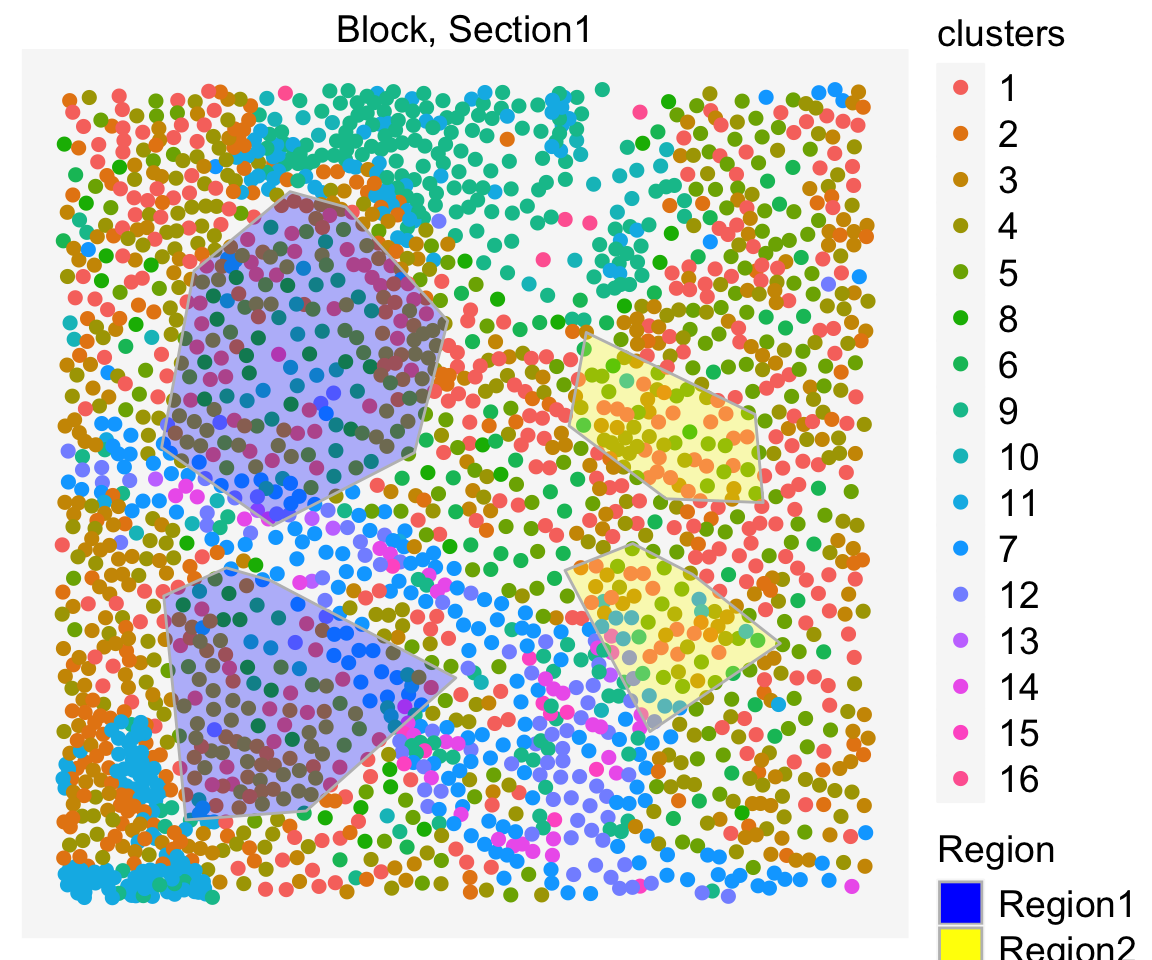
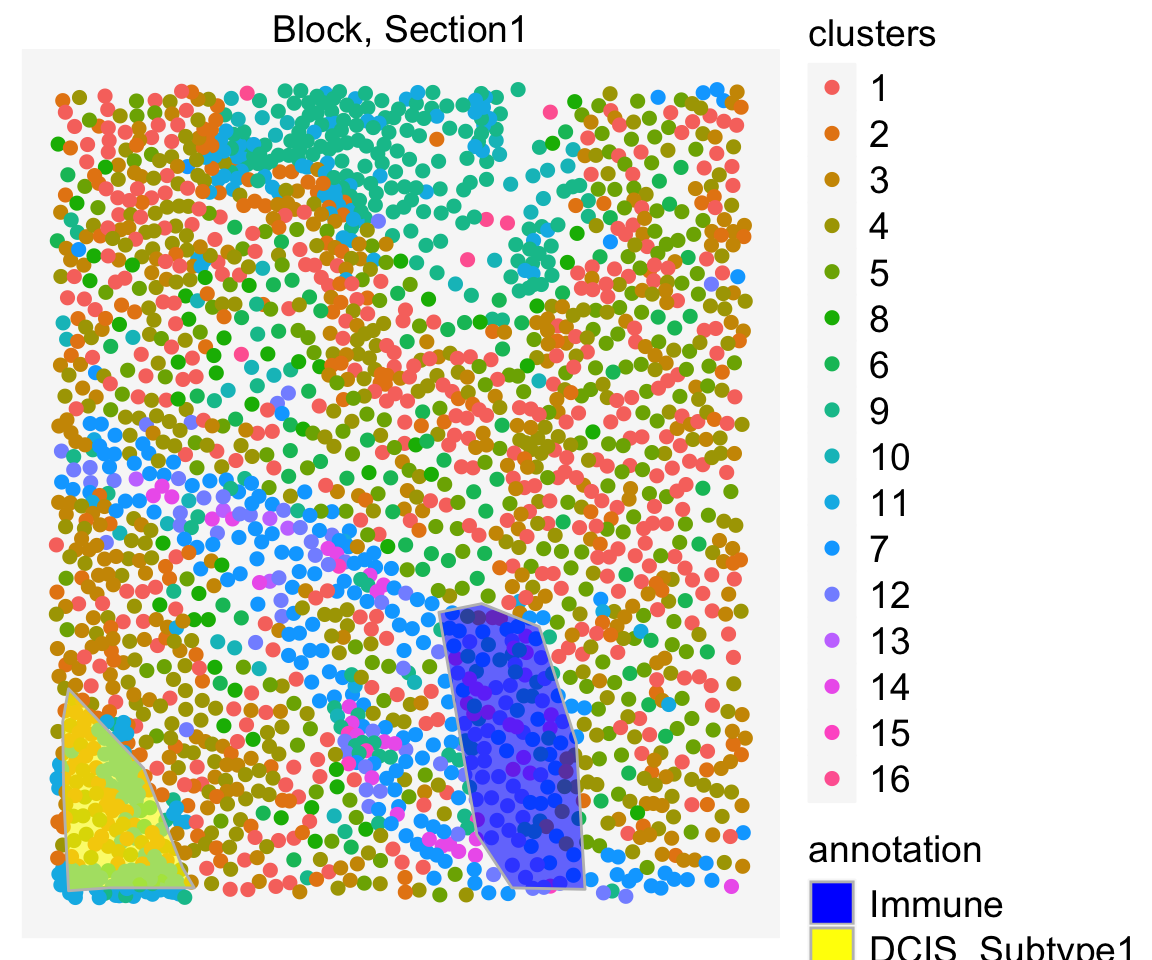
rerender the site

diff --git a/docs/voltronobjects.html b/docs/voltronobjects.html
@@ -493,13 +493,20 @@ tissue block with multiple layers and assays).</p>
 <p>The <strong>Metadata</strong> function calls the metadata table of
 the main assay type (see <a href="#assays">vrMainAssay</a>).</p>
 <pre class="r watch-out"><code>Metadata(visium_data)</code></pre>
-<pre><code>##                                                  id Count assay_id  Assay    Layer    Sample
-## AAAGGCTCTCGCGCCG-1_Assay1 AAAGGCTCTCGCGCCG-1_Assay1 39690   Assay1 Visium Section1 Anterior1
-## AAATGGCCCGTGCCCT-1_Assay1 AAATGGCCCGTGCCCT-1_Assay1 33516   Assay1 Visium Section1 Anterior1
-## AAATTACACGACTCTG-1_Assay1 AAATTACACGACTCTG-1_Assay1 12250   Assay1 Visium Section1 Anterior1
-## AAGACATACGTGGTTT-1_Assay1 AAGACATACGTGGTTT-1_Assay1 31821   Assay1 Visium Section1 Anterior1
-## ACCTACTATAAATCTA-1_Assay1 ACCTACTATAAATCTA-1_Assay1 41387   Assay1 Visium Section1 Anterior1
-## ACGCGGGCCAAGGACA-1_Assay1 ACGCGGGCCAAGGACA-1_Assay1 48003   Assay1 Visium Section1 Anterior1</code></pre>
+<pre><code>##                                                  id Count assay_id  Assay
+## AAAGGCTCTCGCGCCG-1_Assay1 AAAGGCTCTCGCGCCG-1_Assay1 39690   Assay1 Visium
+## AAATGGCCCGTGCCCT-1_Assay1 AAATGGCCCGTGCCCT-1_Assay1 33516   Assay1 Visium
+## AAATTACACGACTCTG-1_Assay1 AAATTACACGACTCTG-1_Assay1 12250   Assay1 Visium
+## AAGACATACGTGGTTT-1_Assay1 AAGACATACGTGGTTT-1_Assay1 31821   Assay1 Visium
+## ACCTACTATAAATCTA-1_Assay1 ACCTACTATAAATCTA-1_Assay1 41387   Assay1 Visium
+## ACGCGGGCCAAGGACA-1_Assay1 ACGCGGGCCAAGGACA-1_Assay1 48003   Assay1 Visium
+##                              Layer    Sample
+## AAAGGCTCTCGCGCCG-1_Assay1 Section1 Anterior1
+## AAATGGCCCGTGCCCT-1_Assay1 Section1 Anterior1
+## AAATTACACGACTCTG-1_Assay1 Section1 Anterior1
+## AAGACATACGTGGTTT-1_Assay1 Section1 Anterior1
+## ACCTACTATAAATCTA-1_Assay1 Section1 Anterior1
+## ACGCGGGCCAAGGACA-1_Assay1 Section1 Anterior1</code></pre>
 <p>You can also specify the assay ID or the assay type to call metadata
 of a subset of spatial points.</p>
 <pre class="r watch-out"><code>Metadata(visium_data, assay = &quot;Visium&quot;)
@@ -523,12 +530,14 @@ spot, cell, molecule and tile).</p>
 <p>The <strong>vrSpatialPoints</strong> function return the IDs of these
 entities for further downstream operations, such as subsetting etc.</p>
 <pre class="r watch-out"><code>vrSpatialPoints(visium_data)</code></pre>
-<pre><code>## [1] &quot;AAAGGCTCTCGCGCCG-1_Assay1&quot; &quot;AAATGGCCCGTGCCCT-1_Assay1&quot; &quot;AAATTACACGACTCTG-1_Assay1&quot;</code></pre>
+<pre><code>## [1] &quot;AAAGGCTCTCGCGCCG-1_Assay1&quot; &quot;AAATGGCCCGTGCCCT-1_Assay1&quot;
+## [3] &quot;AAATTACACGACTCTG-1_Assay1&quot;</code></pre>
 <p>You can also specify the assay ID or the assay type to call metadata
 of a subset of spatial points.</p>
 <pre class="r watch-out"><code>vrSpatialPoints(visium_data, assay = &quot;Visium&quot;)
 vrSpatialPoints(visium_data, assay = &quot;Assay1&quot;)</code></pre>
-<pre><code>## [1] &quot;AAAGGCTCTCGCGCCG-1_Assay1&quot; &quot;AAATGGCCCGTGCCCT-1_Assay1&quot; &quot;AAATTACACGACTCTG-1_Assay1&quot;</code></pre>
+<pre><code>## [1] &quot;AAAGGCTCTCGCGCCG-1_Assay1&quot; &quot;AAATGGCCCGTGCCCT-1_Assay1&quot;
+## [3] &quot;AAATTACACGACTCTG-1_Assay1&quot;</code></pre>
 <p><br></p>
 </div>
 <div id="assays" class="section level2">
@@ -589,7 +598,8 @@ call coordinates (see <a href="#image">vrMainSpatial</a>)</p>
 function looks for a registered version of the main coordinate system
 and returns its coordinates (if there is any).</p>
 <pre class="r watch-out"><code>vrCoordinates(visium_data, spatial_name = &quot;main&quot;, reg = TRUE)</code></pre>
-<pre><code>## Warning in .local(object, ...): There are no registered spatial systems with name main!</code></pre>
+<pre><code>## Warning in .local(object, ...): There are no registered spatial systems with
+## name main!</code></pre>
 <pre><code>##                                   x        y z
 ## CCTTGACCACTTTATT-1_Assay1 463.78658 183.1497 0
 ## ATTTGTCTTGGGAGCT-1_Assay1 374.97419 275.8864 0
@@ -739,21 +749,35 @@ object, and called later again</p>
 <div id="feature-matrix-data" class="section level2">
 <h2>Feature Matrix (Data)</h2>
 <pre class="r watch-out"><code>vrData(visium_data)[3:8,3:5]</code></pre>
-<pre><code>##         AAATTACACGACTCTG-1_Assay1 AAGACATACGTGGTTT-1_Assay1 ACCTACTATAAATCTA-1_Assay1
-## Gm19938                         0                         0                         0
-## Gm37381                         0                         0                         0
-## Rp1                             0                         0                         0
-## Sox17                           0                         1                         1
-## Gm37587                         0                         0                         0
-## Gm37323                         0                         0                         0</code></pre>
+<pre><code>##         AAATTACACGACTCTG-1_Assay1 AAGACATACGTGGTTT-1_Assay1
+## Gm19938                         0                         0
+## Gm37381                         0                         0
+## Rp1                             0                         0
+## Sox17                           0                         1
+## Gm37587                         0                         0
+## Gm37323                         0                         0
+##         ACCTACTATAAATCTA-1_Assay1
+## Gm19938                         0
+## Gm37381                         0
+## Rp1                             0
+## Sox17                           1
+## Gm37587                         0
+## Gm37323                         0</code></pre>
 <pre class="r watch-out"><code>vrData(visium_data, norm = TRUE)[3:8,3:5]</code></pre>
-<pre><code>##         AAATTACACGACTCTG-1_Assay1 AAGACATACGTGGTTT-1_Assay1 ACCTACTATAAATCTA-1_Assay1
-## Gm19938                         0                 0.0000000                 0.0000000
-## Gm37381                         0                 0.0000000                 0.0000000
-## Rp1                             0                 0.0000000                 0.0000000
-## Sox17                           0                 0.2732722                 0.2164184
-## Gm37587                         0                 0.0000000                 0.0000000
-## Gm37323                         0                 0.0000000                 0.0000000</code></pre>
+<pre><code>##         AAATTACACGACTCTG-1_Assay1 AAGACATACGTGGTTT-1_Assay1
+## Gm19938                         0                 0.0000000
+## Gm37381                         0                 0.0000000
+## Rp1                             0                 0.0000000
+## Sox17                           0                 0.2732722
+## Gm37587                         0                 0.0000000
+## Gm37323                         0                 0.0000000
+##         ACCTACTATAAATCTA-1_Assay1
+## Gm19938                 0.0000000
+## Gm37381                 0.0000000
+## Rp1                     0.0000000
+## Sox17                   0.2164184
+## Gm37587                 0.0000000
+## Gm37323                 0.0000000</code></pre>
 <p><br></p>
 </div>
 <div id="embedding" class="section level2">
@@ -816,7 +840,8 @@ visium_data_subset</code></pre>
 href="#spatialpoints">vrSpatialPoints</a>)</p>
 <pre class="r watch-out"><code>selected_points &lt;- vrSpatialPoints(visium_data)
 selected_points[1:20]</code></pre>
-<pre><code>## [1] &quot;AAAGGCTCTCGCGCCG-1_Assay1&quot; &quot;AAATGGCCCGTGCCCT-1_Assay1&quot; &quot;AAATTACACGACTCTG-1_Assay1&quot;</code></pre>
+<pre><code>## [1] &quot;AAAGGCTCTCGCGCCG-1_Assay1&quot; &quot;AAATGGCCCGTGCCCT-1_Assay1&quot;
+## [3] &quot;AAATTACACGACTCTG-1_Assay1&quot;</code></pre>
 <pre class="r watch-out"><code>visium_data_subset &lt;- subset(visium_data, spatialpoints = selected_points[1:20])
 visium_data_subset</code></pre>
 <pre><code>## VoltRon Object 
@@ -833,12 +858,18 @@ this list. However, it would only subset the main assay (see <a
 href="#assays">vrMainAssay</a>)</p>
 <pre class="r watch-out"><code>selected_features &lt;- vrFeatures(visium_data)
 selected_features[1:20]</code></pre>
-<pre><code>##  [1] &quot;Xkr4&quot;          &quot;Gm1992&quot;        &quot;Gm19938&quot;       &quot;Gm37381&quot;       &quot;Rp1&quot;           &quot;Sox17&quot;         &quot;Gm37587&quot;       &quot;Gm37323&quot;       &quot;Mrpl15&quot;        &quot;Lypla1&quot;       
-## [11] &quot;Tcea1&quot;         &quot;Rgs20&quot;         &quot;Gm16041&quot;       &quot;Atp6v1h&quot;       &quot;Oprk1&quot;         &quot;Npbwr1&quot;        &quot;Rb1cc1&quot;        &quot;4732440D04Rik&quot; &quot;Alkal1&quot;        &quot;St18&quot;</code></pre>
+<pre><code>##  [1] &quot;Xkr4&quot;          &quot;Gm1992&quot;        &quot;Gm19938&quot;       &quot;Gm37381&quot;      
+##  [5] &quot;Rp1&quot;           &quot;Sox17&quot;         &quot;Gm37587&quot;       &quot;Gm37323&quot;      
+##  [9] &quot;Mrpl15&quot;        &quot;Lypla1&quot;        &quot;Tcea1&quot;         &quot;Rgs20&quot;        
+## [13] &quot;Gm16041&quot;       &quot;Atp6v1h&quot;       &quot;Oprk1&quot;         &quot;Npbwr1&quot;       
+## [17] &quot;Rb1cc1&quot;        &quot;4732440D04Rik&quot; &quot;Alkal1&quot;        &quot;St18&quot;</code></pre>
 <pre class="r watch-out"><code>visium_data_subset &lt;- subset(visium_data, features = selected_features[1:20])
 vrFeatures(visium_data_subset)</code></pre>
-<pre><code>##  [1] &quot;Xkr4&quot;          &quot;Gm1992&quot;        &quot;Gm19938&quot;       &quot;Gm37381&quot;       &quot;Rp1&quot;           &quot;Sox17&quot;         &quot;Gm37587&quot;       &quot;Gm37323&quot;       &quot;Mrpl15&quot;        &quot;Lypla1&quot;       
-## [11] &quot;Tcea1&quot;         &quot;Rgs20&quot;         &quot;Gm16041&quot;       &quot;Atp6v1h&quot;       &quot;Oprk1&quot;         &quot;Npbwr1&quot;        &quot;Rb1cc1&quot;        &quot;4732440D04Rik&quot; &quot;Alkal1&quot;        &quot;St18&quot;</code></pre>
+<pre><code>##  [1] &quot;Xkr4&quot;          &quot;Gm1992&quot;        &quot;Gm19938&quot;       &quot;Gm37381&quot;      
+##  [5] &quot;Rp1&quot;           &quot;Sox17&quot;         &quot;Gm37587&quot;       &quot;Gm37323&quot;      
+##  [9] &quot;Mrpl15&quot;        &quot;Lypla1&quot;        &quot;Tcea1&quot;         &quot;Rgs20&quot;        
+## [13] &quot;Gm16041&quot;       &quot;Atp6v1h&quot;       &quot;Oprk1&quot;         &quot;Npbwr1&quot;       
+## [17] &quot;Rb1cc1&quot;        &quot;4732440D04Rik&quot; &quot;Alkal1&quot;        &quot;St18&quot;</code></pre>
 <p><br></p>
 </div>
 <div id="interactive-subsetting" class="section level3">
@@ -941,8 +972,9 @@ type.</p>
 <p>You can also visualize the segments that represents annotations of
 the tissue sections along with the cells.</p>
 <pre class="r watch-out"><code>vrSpatialPlot(merged_object, plot.segments = FALSE, group.by = &quot;clusters&quot;) |&gt;
-  addSpatialLayer(merged_object, assay = &quot;Assay3&quot;, group.by = &quot;Region&quot;, alpha = 0.3, 
-                  color = list(Region1 = &quot;blue&quot;, Region2 = &quot;yellow&quot;))</code></pre>
+  addSpatialLayer(merged_object, assay = &quot;Assay3&quot;, group.by = &quot;annotation&quot;, alpha = 0.6, 
+                  group.ids = c(&quot;Immune&quot;, &quot;DCIS_Subtype1&quot;),
+                  color = list(Immune = &quot;blue&quot;, DCIS_Subtype1 = &quot;yellow&quot;))</code></pre>
 <pre><code>## Warning: Duplicated `override.aes` is ignored.</code></pre>
 <p><img src="voltronobjects_files/figure-html/unnamed-chunk-74-1.png" width="60%" style="display: block; margin: auto;" /></p>
 <p><br></p>

diff --git a/docs/nicheclustering.html b/docs/nicheclustering.html
@@ -889,10 +889,14 @@ vr_openst &lt;- getClusters(vr_openst, nclus = 6,
 </div>
 <div id="visualization-2" class="section level2">
 <h2>Visualization</h2>
-<pre class="r watch-out"><code>g1 &lt;- vrSpatialPlot(vr_openst, assay = &quot;Assay1&quot;, group.by = &quot;niche_clusters&quot;, background.color = &quot;black&quot;, n.tile = 400, alpha = 1)
-g2 &lt;- vrSpatialPlot(vr_openst, assay = &quot;Assay1&quot;, group.by = &quot;annotation&quot;, background.color = &quot;black&quot;, n.tile = 400, alpha = 1)
-g3 &lt;- vrSpatialPlot(vr_openst, assay = &quot;Assay2&quot;, group.by = &quot;niche_clusters&quot;, background.color = &quot;black&quot;, n.tile = 400, alpha = 1)
-g4 &lt;- vrSpatialPlot(vr_openst, assay = &quot;Assay2&quot;, group.by = &quot;annotation&quot;, background.color = &quot;black&quot;, n.tile = 400, alpha = 1)
+<pre class="r watch-out"><code>g1 &lt;- vrSpatialPlot(vr_openst, assay = &quot;Assay1&quot;, group.by = &quot;niche_clusters&quot;, 
+                    background.color = &quot;black&quot;, n.tile = 400, alpha = 1)
+g2 &lt;- vrSpatialPlot(vr_openst, assay = &quot;Assay1&quot;, group.by = &quot;annotation&quot;, 
+                    background.color = &quot;black&quot;, n.tile = 400, alpha = 1)
+g3 &lt;- vrSpatialPlot(vr_openst, assay = &quot;Assay2&quot;, group.by = &quot;niche_clusters&quot;, 
+                    background.color = &quot;black&quot;, n.tile = 400, alpha = 1)
+g4 &lt;- vrSpatialPlot(vr_openst, assay = &quot;Assay2&quot;, group.by = &quot;annotation&quot;, 
+                    background.color = &quot;black&quot;, n.tile = 400, alpha = 1)
 
 library(patchwork)
 (g1 | g2) / (g3 | g4)</code></pre>
